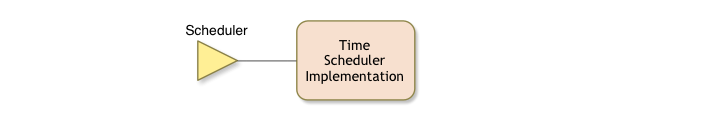
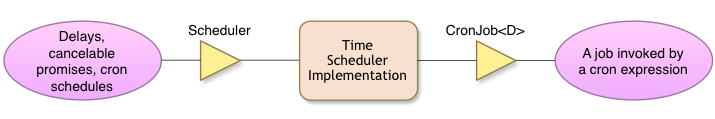
wip

diff --git a/_source/_layouts/front.html b/_source/_layouts/front.html
@@ -54,7 +54,7 @@
 
 			<p>
 				If you are a developer and want to try out the tool chain then start
-				with the <a href="/tutorials/base/index.html">base tutorial</a>.
+				with the <a href="book/200-quick-start.html">base tutorial</a>.
 				This is a zero-knowledge required tutorial that guides you through
 				all the principles of developing with enRoute. This tutorial will
 				work you through all the basics.

diff --git a/_source/_services/org.osgi.service.component.md b/_source/_services/org.osgi.service.component.md
@@ -7,6 +7,139 @@ summary: An extender for Declarative Services components
 
 ![Declarative Services Collaboration Diagram](/img/services/org.osgi.service.component.overview.png)
 
+## When to Use?
+
+Always! DS is the backbone of OSGi. Whenever you write code in OSGi you write them as DS components. 
+
+## Example Usage
+
+
+## Background
+
+Not sure what we were smoking when designing the original OSGi specification, or maybe it was just youthful exuberance, but OSGi did not really become useful for the rest of us until we had Declarative Services (DS) with their annotations. Though some old hardliners still seem to resist it (see [Real Men Don't Use DS][1]), it is obvious that if you use OSGi and not use DS you're either extremely deep down in middleware or you're just plain wrong. 
+
+DS (or also called the Service Component Runtime SCR) is an extender that creates components from your bundle. Each component is defined in a, shudder, XML resource. In the bad old days you had to write this XML but fortunately there are now some annotations that allows bnd to write the XML on the fly. This XML file defines your dependencies, properties, and registered services. When the time comes, DS will instantiate the class, inject the dependencies, activate it, and register the services.
+
+At first, there are many similarities with injection framework. However, this is comparing a flat space with a 3D space since DS handles dynamic dependencies. Though for many a developer the dynamics in OSGi are off putting, the advent of distributed systems makes it more and more clear that the world is dynamic and trying to hide these dynamics for the developer is a really bad idea. Over and over nature proves us trying to give the impression of a perfect world only makes us fall deeper and harder when the perfection cracks, which inevitably occurs. The beauty of DS is that it allows us to live in a dynamic world with very little effort. If you're a skeptic, realize that those [lustrous points][2] had no clue what that Square was talking about. So bear with us, and one day you might become a beautiful Sphere!
+
+## The Simplest Component
+
+Adding a `@Component` annotation to a public class will turn it into a component. Since the effects are rather pointless, let's add a constructor so we can at least see something happening. Make sure you got the right Component annotation since, like names of children, some annotation names are clearly more popular than others. 
+
+	package osgi.enroute.examples.component.examples;
+	
+	import org.osgi.service.component.annotations.Component;
+	
+	@Component
+	public class InfinitelySmallPoint {}
+
+Obviously, this component will not win the Turing price since it does not do anything and is more or less a waste of bits, sacrificed in the goal to elucidate you. Adding a constructor and printing out a message in the constructor will allow you to verify that it actually does get constructed. 
+
+## Registering a Service
+
+The fun part of OSGi are the services, so how can we register a service? Let's implement an Event Handler service. Such a handler receives events from the [Event Admin service][3]. There are always events emitted by the OSGi framework so that allows us to see something. Registering a service is as simple as implementing its interface.
+
+	@Component
+	public class EventHandlerImpl implements EventHandler {
+	
+		@Override
+		public void handleEvent(Event event) {
+			System.out.println("Event: " + event.getTopic());
+		}
+	}
+
+## Creating Events
+
+Though it is not rocket science to create events (just start/stop some components and/or bundles) it would be nice for our fundamental research in OSGi components to have a steady stream. To create such a stream, we need to create Event Admin events every second. Hmm, this requires us to get access to the Event Admin service (the honest broker between the event senders and receivers) and it would be nice to have a  
+
+
+
+## Initialization
+
+Initializing in a constructor is awkward and ill advised, initialization should therefore be done in a method annotated with the `@Activate` annotation. 
+
+	@Component
+	public class SmallPoint {
+	
+		@Activate
+		void activate() {
+			System.out.println("Hello Lustrous Point!");
+		}
+		
+	}
+
+## Dependencies
+
+## Gogo Command
+
+We definitely improved on the usability scale but only a statistician  could get excited about it. Fortunately, there is an easy way to do something useful (ok, that is stretching it still) with a component. If we give the component a few properties 
+
+
+
+
+## The Life Cycle
+
+Let's start simple with single dimensional line land: dependency injection as we all know and love from Spring. Let's inject an OSGi Log Service and allow the defaults do their work:
+
+	package osgi.enroute.examples.component.examples;
+	
+	import org.osgi.service.component.annotations.Component;
+	import org.osgi.service.component.annotations.Reference;
+	import org.osgi.service.log.LogService;
+	
+	@Component
+	public class LogExampleComponent {
+	
+		@Reference
+		void setLog(LogService log) {
+			log.log(LogService.LOG_INFO, "Hello Lustrous Point!");
+		}
+	}
+
+When you run a bundle containing this _component_ then DS will wait until a suitable Log Service comes available. When this happens, DS will instantiate a new `LogExampleComponent` object and call the `setLog` method. Nothing spectacular. We could extend the class with an activate method and do the logging there.  
+
+	@Component
+	public class LogExampleComponent {
+		private LogService log;
+		
+		@Activate
+		void activate() {
+			log.log(LogService.LOG_INFO, "Hello Lustrous Point!");
+		}
+		
+		@Reference
+		void setLog(LogService log) {
+			this.log = log;
+		}
+	}
+
+Still, nothing to write home about. However, if you live in the real world then you know that the Log Service might also disappear. In that case, your component should no longer hold a reference. To make this happen, DS will release the object and it will be garbage collected. Of course you should clean up any mess you've made during the life time of your object so you can implement a _deactivate_ method. 
+
+	@Deactivate
+	void deactivate() {
+		log.log(LogService.LOG_INFO, "Goodbye Line!");
+	}
+
+## Registering a Service
+
+How hard would it be to register a service? Well, for a service we need an interface:
+
+	public interface Line {
+		int getDimensions();
+	}
+
+And make a component:
+
+	@Component
+	public class LineImpl implements Line {
+	
+	}	
+
+Since we now implement an interface DS makes the clever assumption that you want to register a Line µservice. Since you now register a service there is no need to immediately instantiate the component, DS will now wait until the registered µservice is used.  
+
+
+* bnd calculates the corresponding XML file.
+
 
 The OSGi Framework contains a procedural service model which provides a publish/find/bind mod- el for using services. This model is elegant and powerful, it enables the building of applications out of bundles that communicate and collaborate using these services.
 This specification addresses some of the complications that arise when the OSGi service model is used for larger systems and wider deployments, such as:
@@ -18,3 +151,8 @@ This specification addresses some of the complications that arise when the OSGi 
 The service component model uses a declarative model for publishing, finding and binding to OSGi services. This model simplifies the task of authoring OSGi services by performing the work of reg- istering the service and handling service dependencies. This minimizes the amount of code a pro- grammer has to write; it also allows service components to be loaded only when they are needed. As a result, bundles need not provide a BundleActivator class to collaborate with others through the service registry.
 From a system perspective, the service component model means reduced startup time and potential- ly a reduction of the memory footprint. From a programmer’s point of view the service component model provides a simplified programming model.
 The Service Component model makes use of concepts described in [1] Automating Service Dependency Management in a Service-Oriented Component Model.
+
+
+[1]: http://blog.osgi.org/2013/07/real-men-dont-use-ds.html
+[2]: https://github.com/Ivesvdf/flatland/blob/master/oneside_a4.pdf?raw=true
+[3]: http://enroute.osgi.org/services/org.osgi.service.event.html

diff --git a/_source/_services/osgi.enroute.scheduler.api.md b/_source/_services/osgi.enroute.scheduler.api.md
@@ -1,0 +1,35 @@
+---
+title: osgi.enroute.scheduler.api
+layout: service
+version: 1.0
+summary: Provides time based functions like delays, (cron and period based) schedules, and timeouts on Promises. 
+---
+
+![Scheduler Service](/img/services/osgi.enroute.scheduler.overview.png)
+
+## Problem
+
+You use the Scheduler API in the following cases:
+
+* Delays – `scheduler.after( ()-> foo(), 100 )`
+* Running at a certain time – `scheduler.at( Instant.from( dateTime ) )`
+* Periodic Schedules – `scheduler.schedule( ()-> foo(), 10, 20 , 40, 100 )`
+* Cron Schedules – `scheduler.schedule( () -> foo(), "10 10 10 FRI#3 JAN-JUN ?" )`
+* Timeout on Promises – `CancelablePromise<Integer> cp = scheduler.before( p, 100 )`
+* Execute some work on another thread – `scheduler.after( C::work, 0)`
+
+## Background 
+
+Basically the API replaces the Java Timer and ScheduledExecutor while providing quite a bit more bang for the buck. It is bundle aware so that any schedules or delays are properly canceled when the bundle is stopped.  
+
+## 
+ 
+
+
+
+## Configuration
+
+Implementations must follow the PID `osgi.enroute.rest` which must support at least the following fields:
+
+* `alias` – The primary end-point
+
